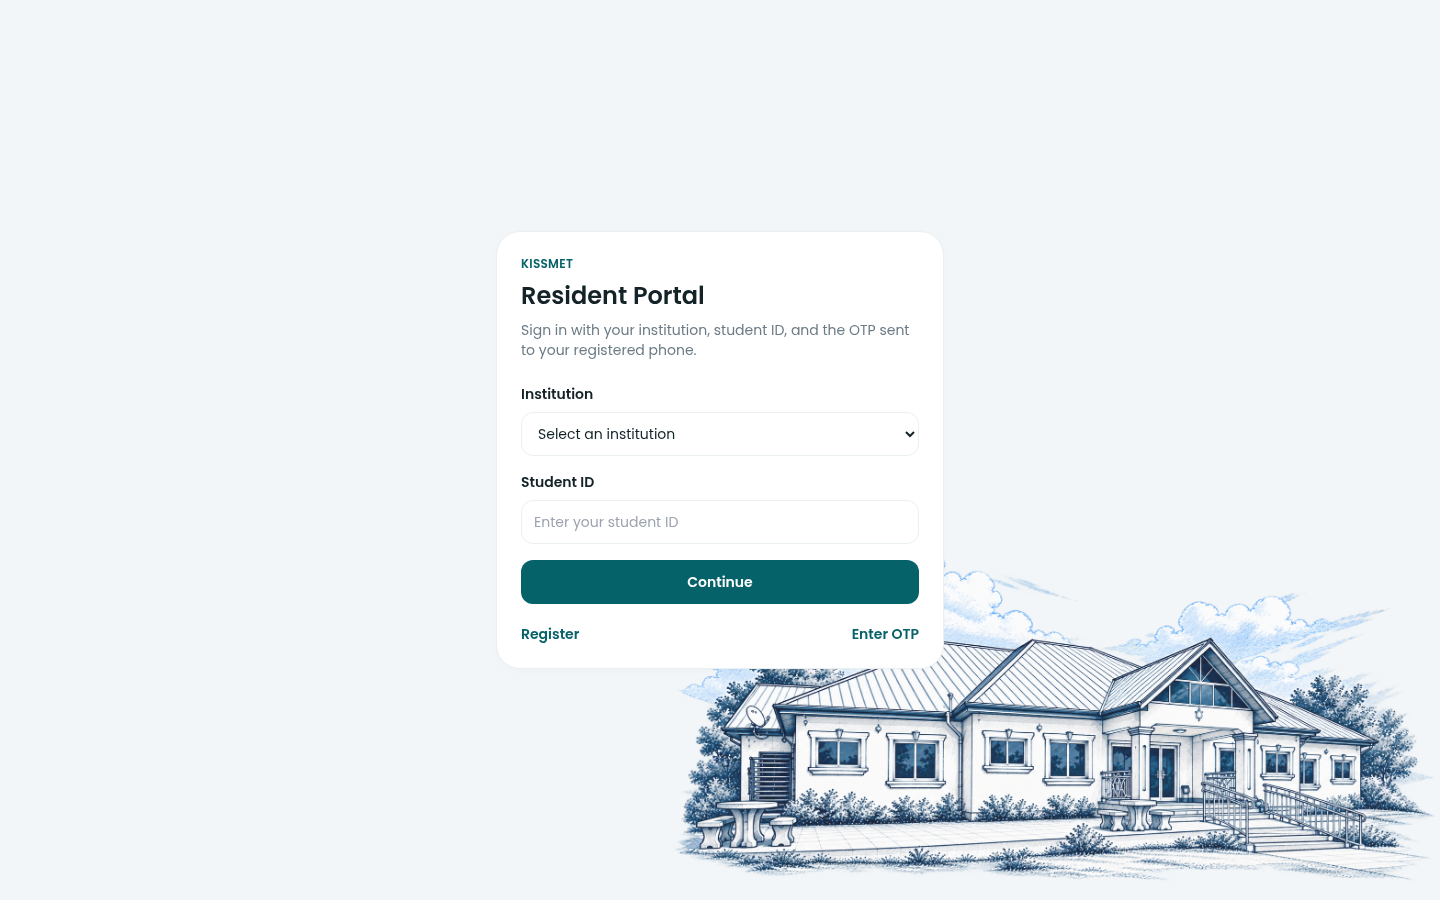
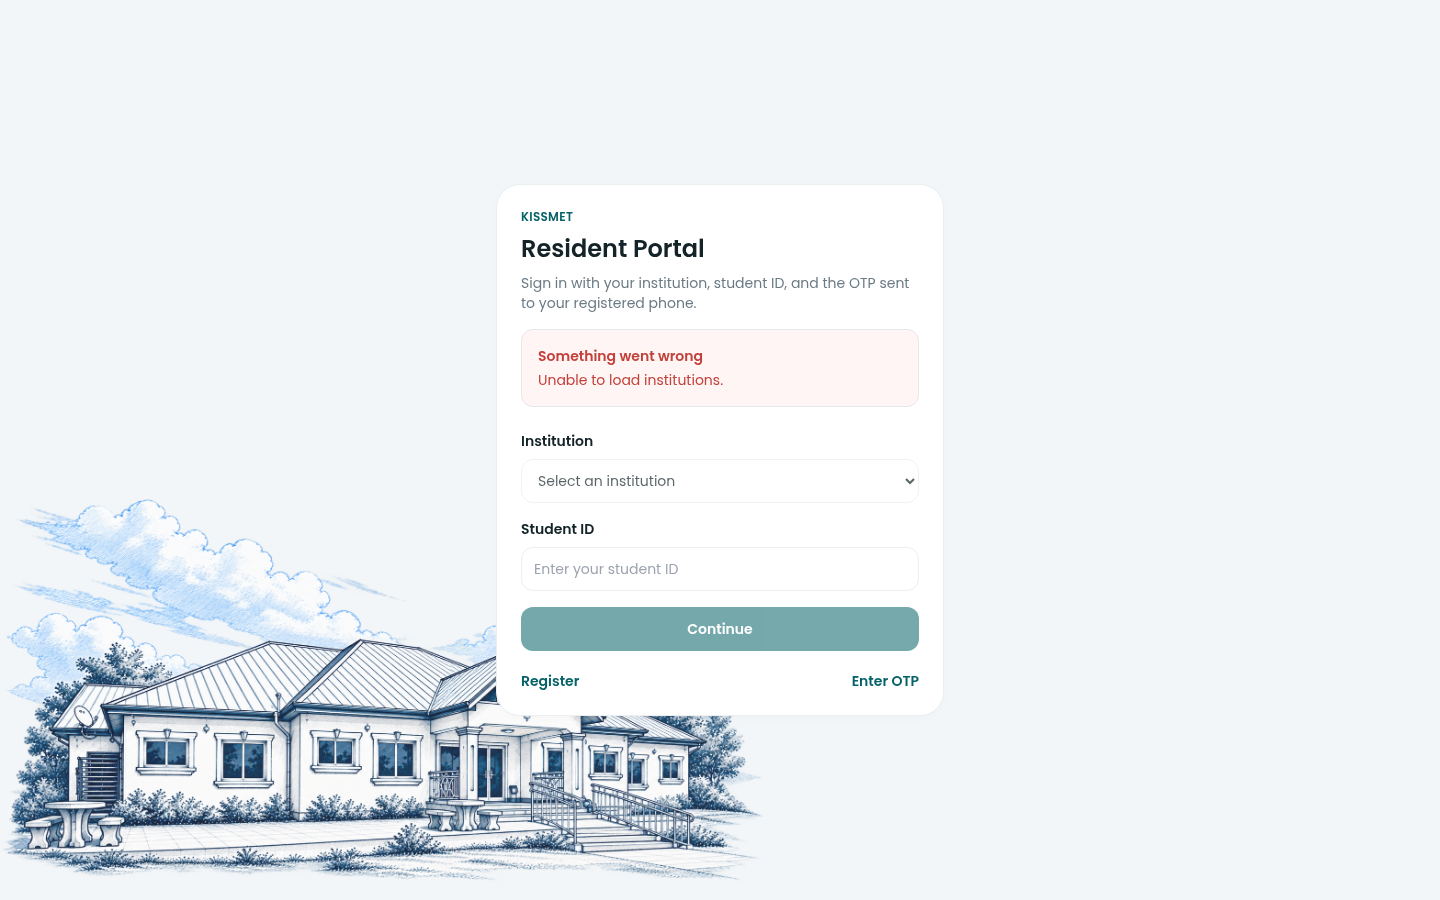
Move login hostel illustration to bottom-left

Changed region(s): [[0.0, 0.56, 1.0, 0.9956], [0.3438, 0.2178, 0.625, 0.4978], [0.375, 0.5289, 0.4688, 0.5911]]

diff --git a/resident-frontend/src/pages/Login/LoginPage.tsx b/resident-frontend/src/pages/Login/LoginPage.tsx
@@ -69,7 +69,7 @@ export function LoginPage() {
   return (
     <main className="relative flex min-h-screen items-center justify-center overflow-hidden bg-background px-4 py-8">
       <div
-        className="pointer-events-none absolute bottom-0 right-0 z-0 h-[40vh] w-[85%] max-w-xl bg-contain bg-right-bottom bg-no-repeat opacity-90 sm:h-[55vh] sm:w-[65%] sm:max-w-2xl lg:h-[70vh] lg:w-[55%] lg:max-w-3xl"
+        className="pointer-events-none absolute bottom-0 left-0 z-0 h-[40vh] w-[85%] max-w-xl bg-contain bg-left-bottom bg-no-repeat opacity-90 sm:h-[55vh] sm:w-[65%] sm:max-w-2xl lg:h-[70vh] lg:w-[55%] lg:max-w-3xl"
         style={{ backgroundImage: `url(${hostelIllustration})` }}
         aria-hidden="true"
       />
